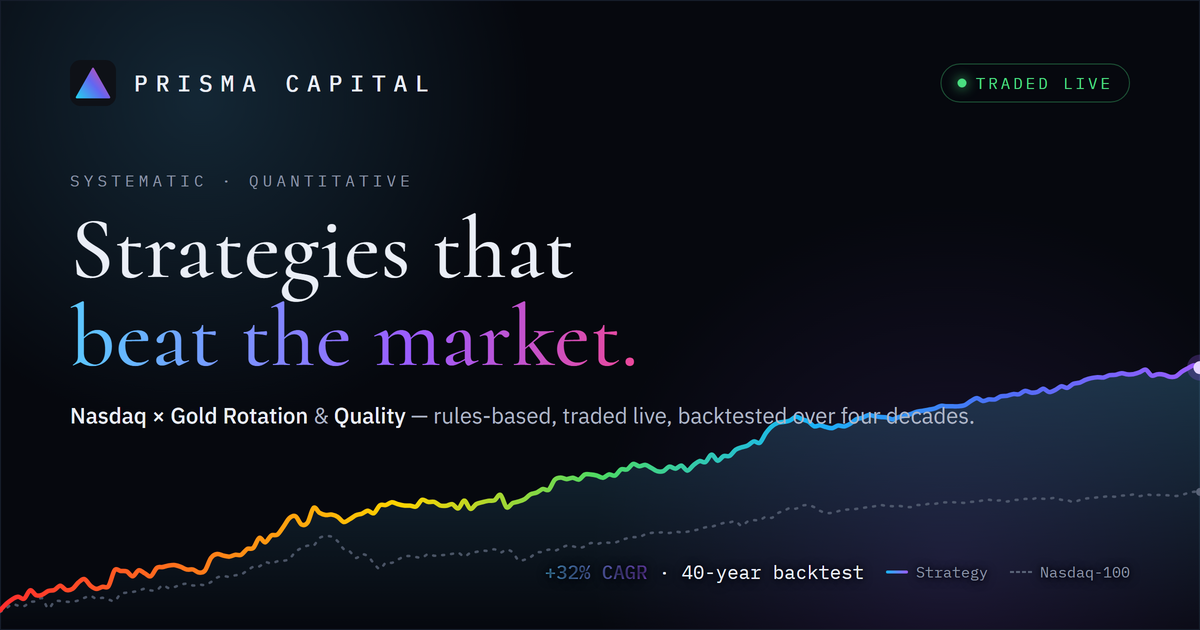
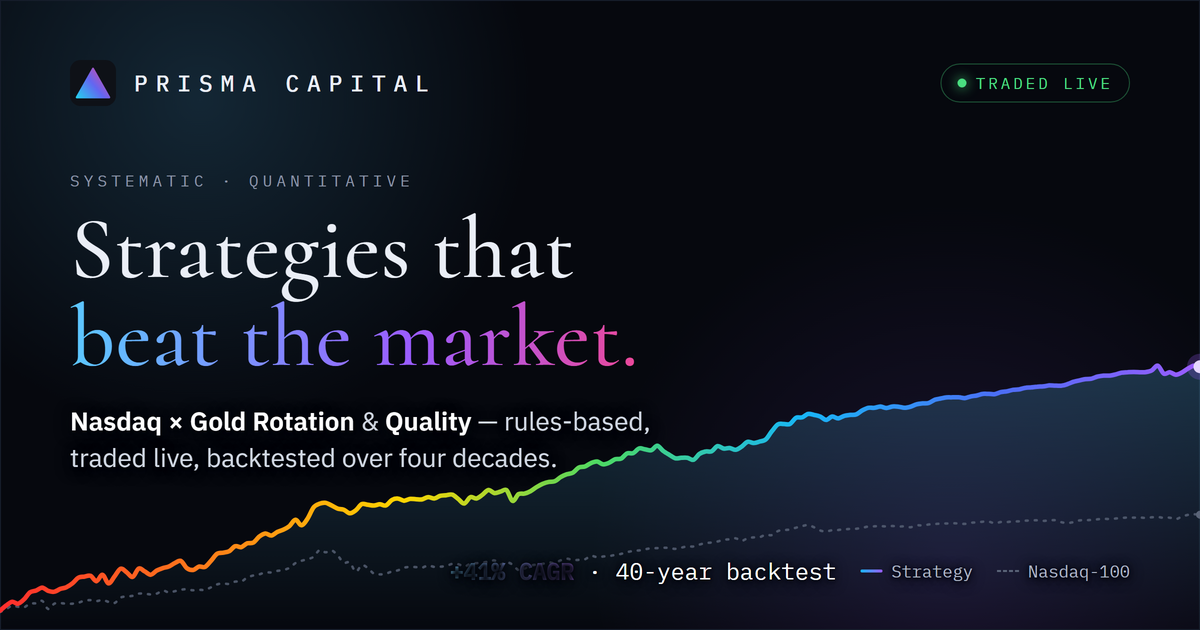
Refresh OG image legibility, fix Balance copy, rotation card desc, mobile spectrum
- og-image.png: bigger, higher-contrast subline (balanced 2-line break + dark
  halo) and larger caption/legend so the lower text is legible; stat refreshed
  from the stale +32% to the current +41% CAGR (40y).
- Balance Equilibrium: it replicates the market with much smaller drawdowns, it
  does not "beat the market" — reworded the tagline, card, metas, schema and two
  FAQ answers accordingly.
- Nasdaq × Gold home card now carries the strategy-page description and notes it
  is our highest-returning and highest-risk strategy.
- Mobile risk spectrum: the horizontal rail overlapped the three names on
  phones; under 680px it now becomes a vertical rail (score left, dot on the
  gradient line, name right, lowest risk at top).

diff --git a/prisma.css b/prisma.css
@@ -249,6 +249,8 @@ h1, h2, h3, h4 { font-family: var(--font-display); font-weight: 500; line-height
 .spectrum-bar .tag.s { left: 30%; color: var(--sp-4); }
 .spectrum-bar .tag.q { left: 60%; color: var(--accent); } .spectrum-bar .tag.r { left: 90%; color: var(--sp-1); }
 .spectrum-ends { display: flex; justify-content: space-between; font-family: var(--font-mono); font-size: 11px; letter-spacing: .1em; text-transform: uppercase; color: var(--muted); }
+/* Vertical rail used on phones instead of the horizontal bar (see 680px media). */
+.spectrum-vert { display: none; }
 
 /* Contact CTA band */
 .cta-band .cta-card { position: relative; border: 1px solid rgba(255,255,255,.22); border-radius: 18px; padding: 66px 32px; text-align: center; overflow: hidden;
@@ -314,10 +316,28 @@ body.strategy .hero h1 { background: none; -webkit-text-fill-color: var(--text);
   .hero-lab h1 { font-size: clamp(38px, 12vw, 66px); line-height: 1.0; margin-top: 14px; }
   .hero-lab .lead { font-size: 15.5px; margin-top: 18px; max-width: 100%; }
   .hero-actions { margin-top: 26px; }
-  .spectrum-bar .tag { font-size: 9.5px; }
-  .spectrum-bar .tag.s { left: 0; transform: none; text-align: left; }
-  .spectrum-bar .tag.q { left: 50%; transform: translateX(-50%); text-align: center; }
-  .spectrum-bar .tag.r { left: auto; right: 0; transform: none; text-align: right; }
+  /* The horizontal rail can't fit three strategy names side by side on a phone
+     without overlapping, so swap to a vertical rail: score on the left, a dot on
+     the line, strategy name on the right, lowest risk at the top. */
+  .spectrum-bar, .spectrum-ends { display: none; }
+  .spectrum-vert {
+    display: grid; position: relative; list-style: none;
+    grid-template-columns: 52px 26px 1fr;
+    align-items: center; row-gap: 34px;
+    margin: 30px auto 8px; padding: 8px 0; max-width: 330px;
+  }
+  .spectrum-vert::before {
+    content: ""; position: absolute; left: 65px; top: 15px; bottom: 15px;
+    width: 3px; transform: translateX(-50%); border-radius: 999px;
+    background: linear-gradient(180deg, var(--sp-4), var(--accent) 50%, var(--sp-1));
+  }
+  .sv-row { display: contents; }
+  .sv-score { grid-column: 1; text-align: right; font-family: var(--font-mono); font-size: 12px; letter-spacing: .06em; color: var(--muted); }
+  .sv-node { grid-column: 2; justify-self: center; z-index: 1; width: 14px; height: 14px; border-radius: 50%; background: var(--bg); border: 2px solid var(--text); }
+  .sv-name { grid-column: 3; font-family: var(--font-mono); font-size: 13px; letter-spacing: .04em; white-space: nowrap; }
+  .sv-row.s .sv-node { border-color: var(--sp-4); } .sv-row.s .sv-name { color: var(--sp-4); }
+  .sv-row.q .sv-node { border-color: var(--accent); } .sv-row.q .sv-name { color: var(--accent); }
+  .sv-row.r .sv-node { border-color: var(--sp-1); } .sv-row.r .sv-name { color: var(--sp-1); }
 }
 
 /* ============================ Live badge ============================ */

diff --git a/steady.html b/steady.html
@@ -4,14 +4,14 @@
   <meta charset="UTF-8">
   <meta name="viewport" content="width=device-width, initial-scale=1.0">
   <title>Balance Equilibrium — Prisma Capital</title>
-  <meta name="description" content="Balance Equilibrium: our steadiest strategy. A balanced mix of equities, gold and bonds for smooth, low-drawdown growth, built to beat US markets over time with much less risk. Backtest and live performance, updated daily.">
+  <meta name="description" content="Balance Equilibrium: our steadiest strategy. A balanced mix of equities, gold and bonds for smooth, low-drawdown growth, built to replicate the market's long-run performance with much less risk. Backtest and live performance, updated daily.">
   <meta name="robots" content="index, follow">
   <meta name="author" content="Prisma Capital">
   <meta name="theme-color" content="#0E1117">
   <link rel="icon" type="image/svg+xml" href="favicon.svg">
   <link rel="canonical" href="https://www.prisma-capital.xyz/steady.html">
   <meta property="og:title" content="Balance Equilibrium — Prisma Capital">
-  <meta property="og:description" content="Our steadiest strategy: a balanced mix of equities, gold and bonds for smooth, low-volatility growth, built to beat US markets with less risk.">
+  <meta property="og:description" content="Our steadiest strategy: a balanced mix of equities, gold and bonds for smooth, low-volatility growth, built to replicate the market's performance with less risk.">
   <meta property="og:type" content="website">
   <meta property="og:url" content="https://www.prisma-capital.xyz/steady.html">
   <meta property="og:image" content="https://www.prisma-capital.xyz/og-image.png">
@@ -34,7 +34,7 @@
         "@id": "https://www.prisma-capital.xyz/steady.html",
         "url": "https://www.prisma-capital.xyz/steady.html",
         "name": "Balance Equilibrium — Prisma Capital",
-        "description": "Balance Equilibrium: our steadiest strategy. A balanced mix of equities, gold and bonds for smooth, low-drawdown growth, built to beat US markets with less risk.",
+        "description": "Balance Equilibrium: our steadiest strategy. A balanced mix of equities, gold and bonds for smooth, low-drawdown growth, built to replicate the market's performance with less risk.",
         "inLanguage": "en",
         "isPartOf": { "@type": "WebSite", "name": "Prisma Capital", "url": "https://www.prisma-capital.xyz/" },
         "about": { "@type": "Thing", "name": "Diversified low-volatility multi-asset investment strategy" }
@@ -67,7 +67,7 @@
           {
             "@type": "Question",
             "name": "What is Balance Equilibrium benchmarked against?",
-            "acceptedAnswer": { "@type": "Answer", "text": "Against an S&P 500 buy-and-hold. The goal is to beat US equities over the long run on a risk-adjusted basis: a similar destination with a much calmer journey. Backtest and live performance are both shown on the page and updated daily." }
+            "acceptedAnswer": { "@type": "Answer", "text": "Against an S&P 500 buy-and-hold. The goal is to replicate US equities' long-run return with much smaller drawdowns: a similar destination with a much calmer journey. Backtest and live performance are both shown on the page and updated daily." }
           }
         ]
       }
@@ -130,7 +130,7 @@
       </div>
       <span class="strat-anim hero-mark" data-3d data-shape="torus" aria-hidden="true"></span>
       <h1>Balance <span class="x">&times;</span> Equilibrium</h1>
-      <p class="tagline">Our steadiest strategy. Slow, smooth, low-volatility growth from a balanced blend of equities, gold and bonds, built to beat US markets over the long run with much smaller drawdowns than a plain stock portfolio.</p>
+      <p class="tagline">Our steadiest strategy. Slow, smooth, low-volatility growth from a balanced blend of equities, gold and bonds, built to replicate the market's long-run performance with much smaller drawdowns than a plain stock portfolio.</p>
       <div class="stats" id="stats-band-s"></div>
       <div class="risk-gauge" id="risk-gauge-s"></div>
       <div class="updated-hero" id="updated-hero-s"></div>
@@ -178,7 +178,7 @@
       </details>
       <details name="how-steady">
         <summary>Smarter than a single basket</summary>
-        <div class="answer">A plain stock portfolio is far more volatile for a similar long-run return. This mix is designed to beat US markets over time on a risk-adjusted basis: a similar destination, a calmer journey.</div>
+        <div class="answer">A plain stock portfolio is far more volatile for a similar long-run return. This mix is designed to match the US market's long-run return with much smaller drawdowns: a similar destination, a calmer journey.</div>
       </details>
       <p>The exact mix and settings are the result of research and walk-forward validation, and are kept private.</p>
     </section>

diff --git a/index.html b/index.html
@@ -166,7 +166,7 @@
           <span class="strat-anim" data-3d aria-hidden="true"></span>
           <span class="strat-eyebrow alpha">Alpha</span>
           <h3>Nasdaq <span class="x">&times;</span> Gold Rotation</h3>
-          <p class="sub">A leveraged Nasdaq-100 / Gold rotation that follows the medium-term trend and dials risk up or down with the market.</p>
+          <p class="sub">An algorithmic strategy that has beaten the Nasdaq across four decades of backtesting, rotating between leveraged Nasdaq&#8209;100 and Gold and scaling its exposure to market volatility. Our highest-returning strategy, and our highest risk.</p>
           <div class="strat-kpis">
             <div><div class="v" data-kpi="r-cagr">—</div><div class="l" data-kpi="r-cagr-l">Model CAGR</div></div>
             <div><div class="v" data-kpi="r-live">—</div><div class="l">Live return</div></div>
@@ -194,7 +194,7 @@
           <span class="strat-anim" data-3d data-shape="torus" aria-hidden="true"></span>
           <span class="strat-eyebrow sigma">Sigma</span>
           <h3>Balance <span class="x">&times;</span> Equilibrium</h3>
-          <p class="sub">Our steadiest strategy: slow, smooth growth with the lowest volatility and drawdown. A balanced mix of equities, gold and bonds, built to beat US markets over time with far less risk than a plain stock portfolio.</p>
+          <p class="sub">Our steadiest strategy: slow, smooth growth with the lowest volatility and drawdown. A balanced mix of equities, gold and bonds, built to replicate the market's long-run performance with far less risk than a plain stock portfolio.</p>
           <div class="strat-kpis">
             <div><div class="v" data-kpi="s-cagr">—</div><div class="l" data-kpi="s-cagr-l">Model CAGR</div></div>
             <div><div class="v" data-kpi="s-live">—</div><div class="l">Live return</div></div>
@@ -222,6 +222,11 @@
           <span class="node r"></span><span class="tag r">Nasdaq × Gold<small>9 / 10</small></span>
         </div>
         <div class="spectrum-ends"><span>Lower risk</span><span>Higher risk</span></div>
+        <ol class="spectrum-vert" aria-label="Strategies by risk, lowest to highest">
+          <li class="sv-row s"><span class="sv-score">3 / 10</span><span class="sv-node"></span><span class="sv-name">Balance &times; Equilibrium</span></li>
+          <li class="sv-row q"><span class="sv-score">6 / 10</span><span class="sv-node"></span><span class="sv-name">Quality &times; Growth</span></li>
+          <li class="sv-row r"><span class="sv-score">9 / 10</span><span class="sv-node"></span><span class="sv-name">Nasdaq &times; Gold</span></li>
+        </ol>
       </div>
     </div>
   </section>